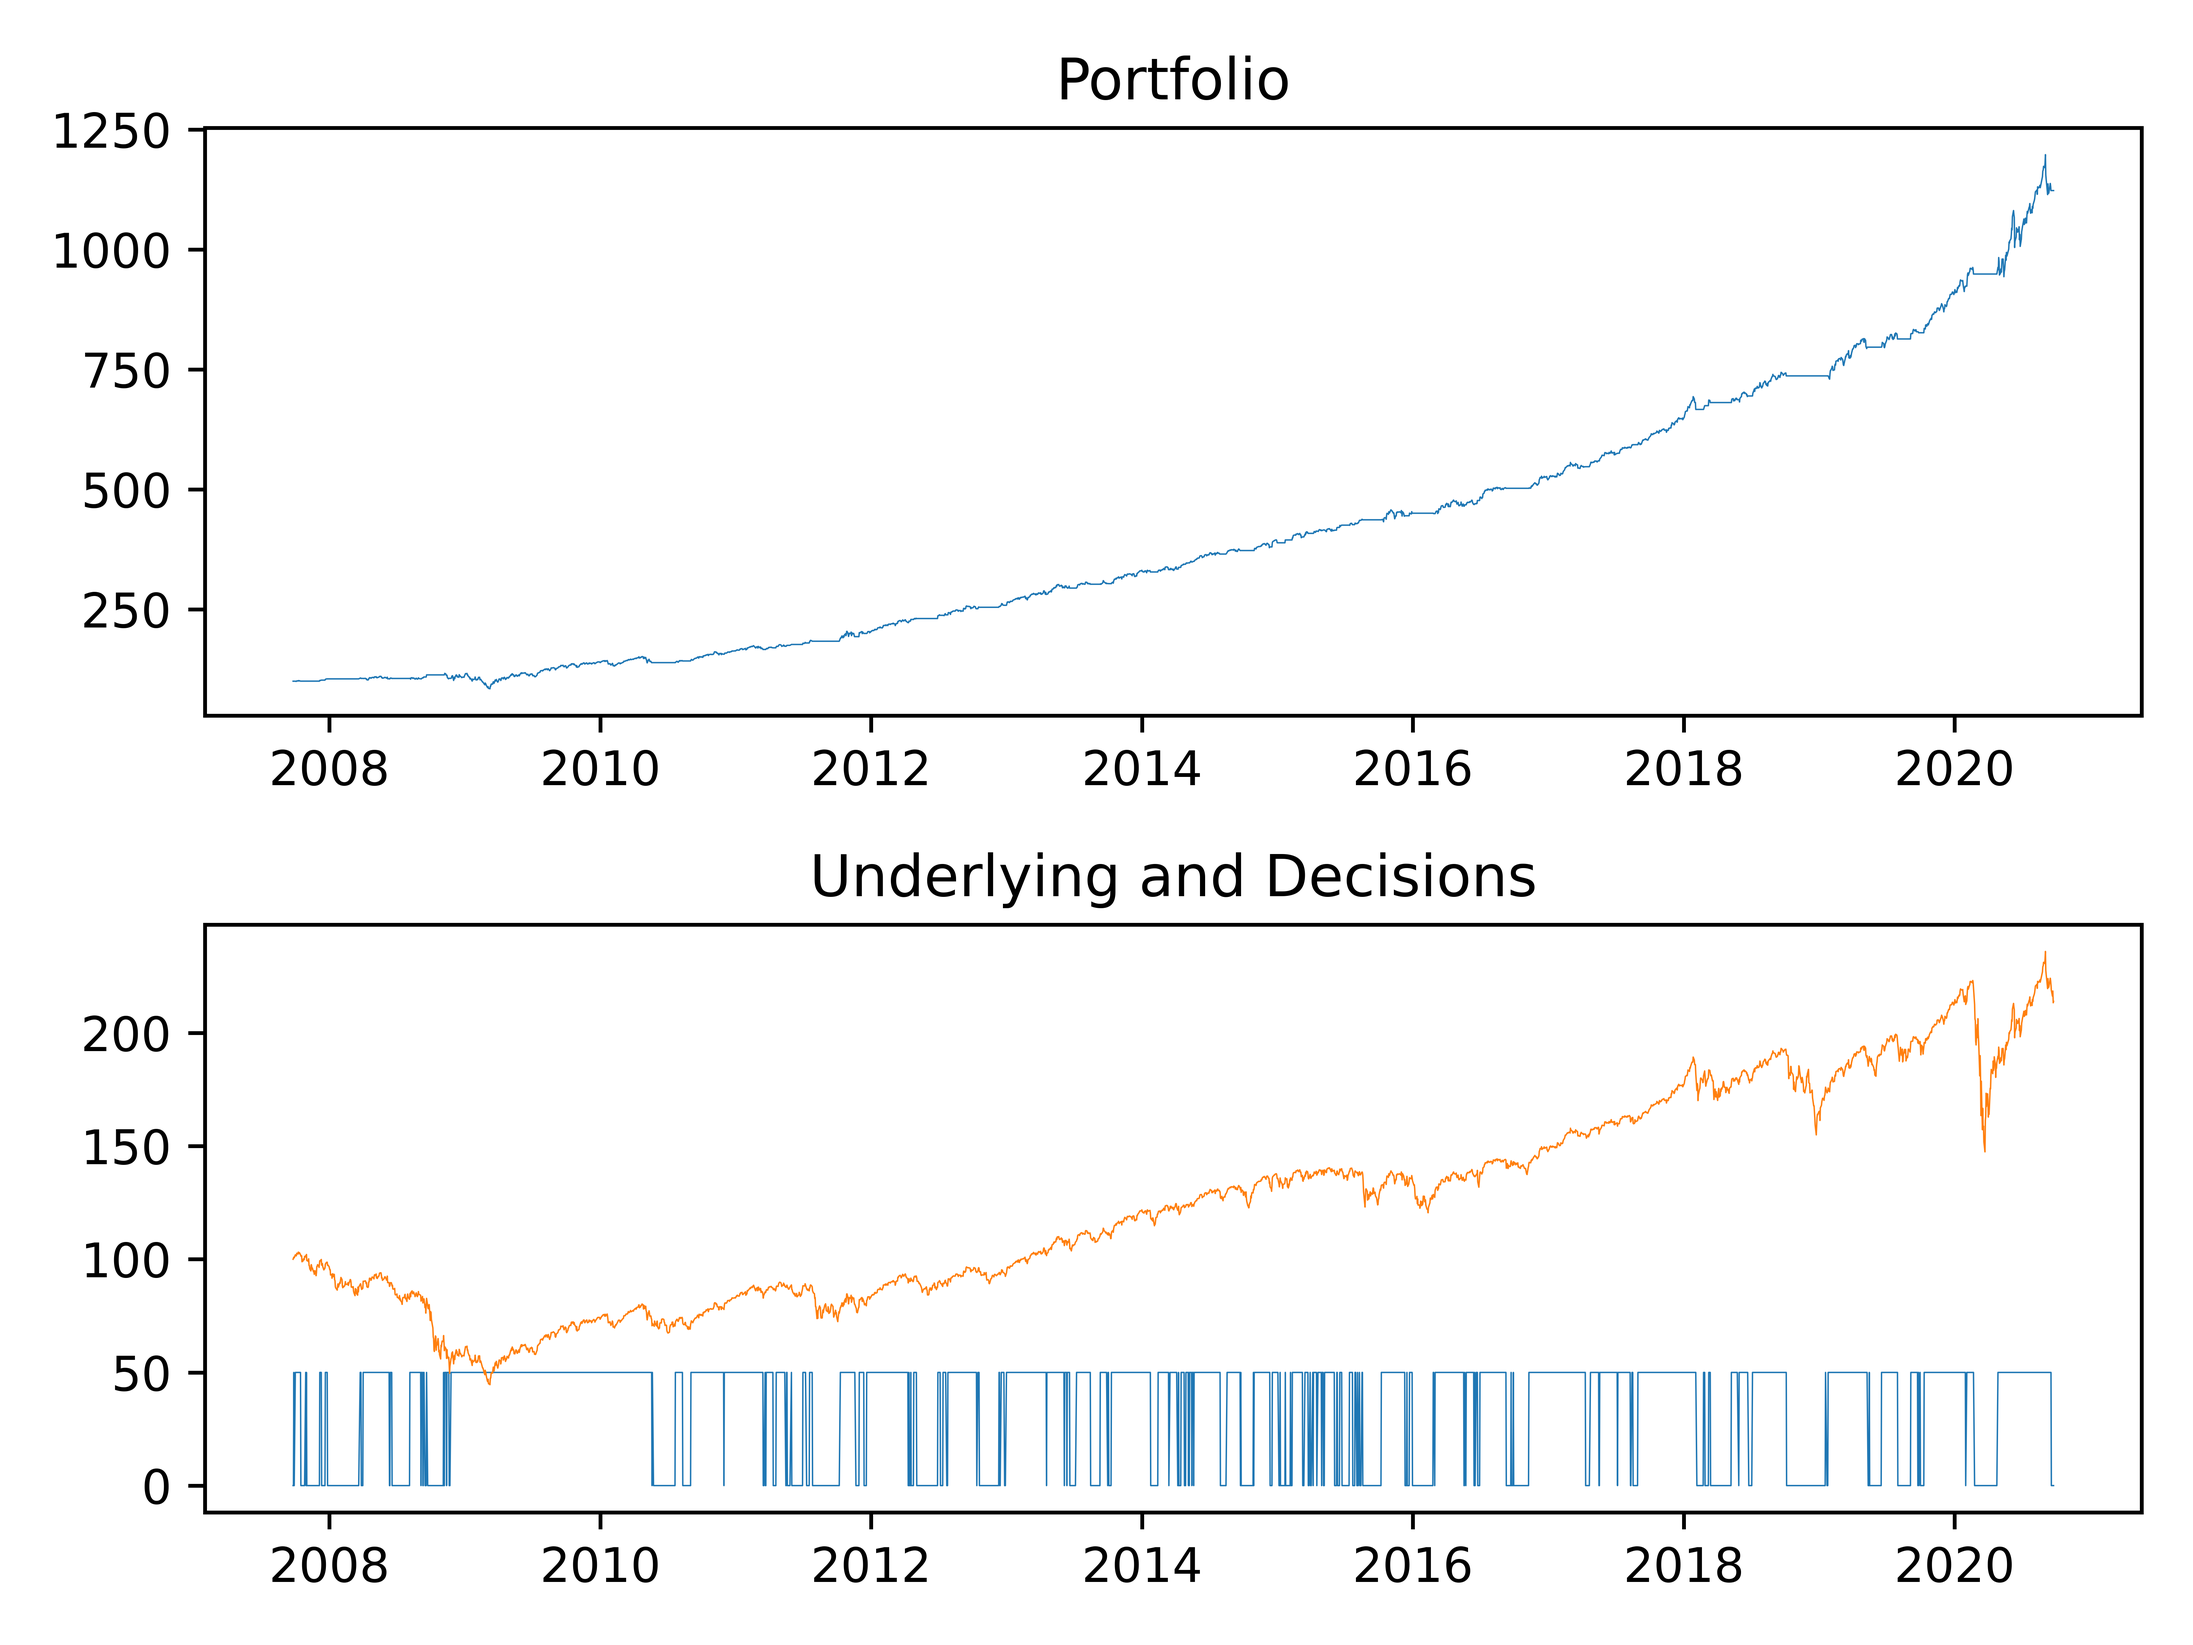
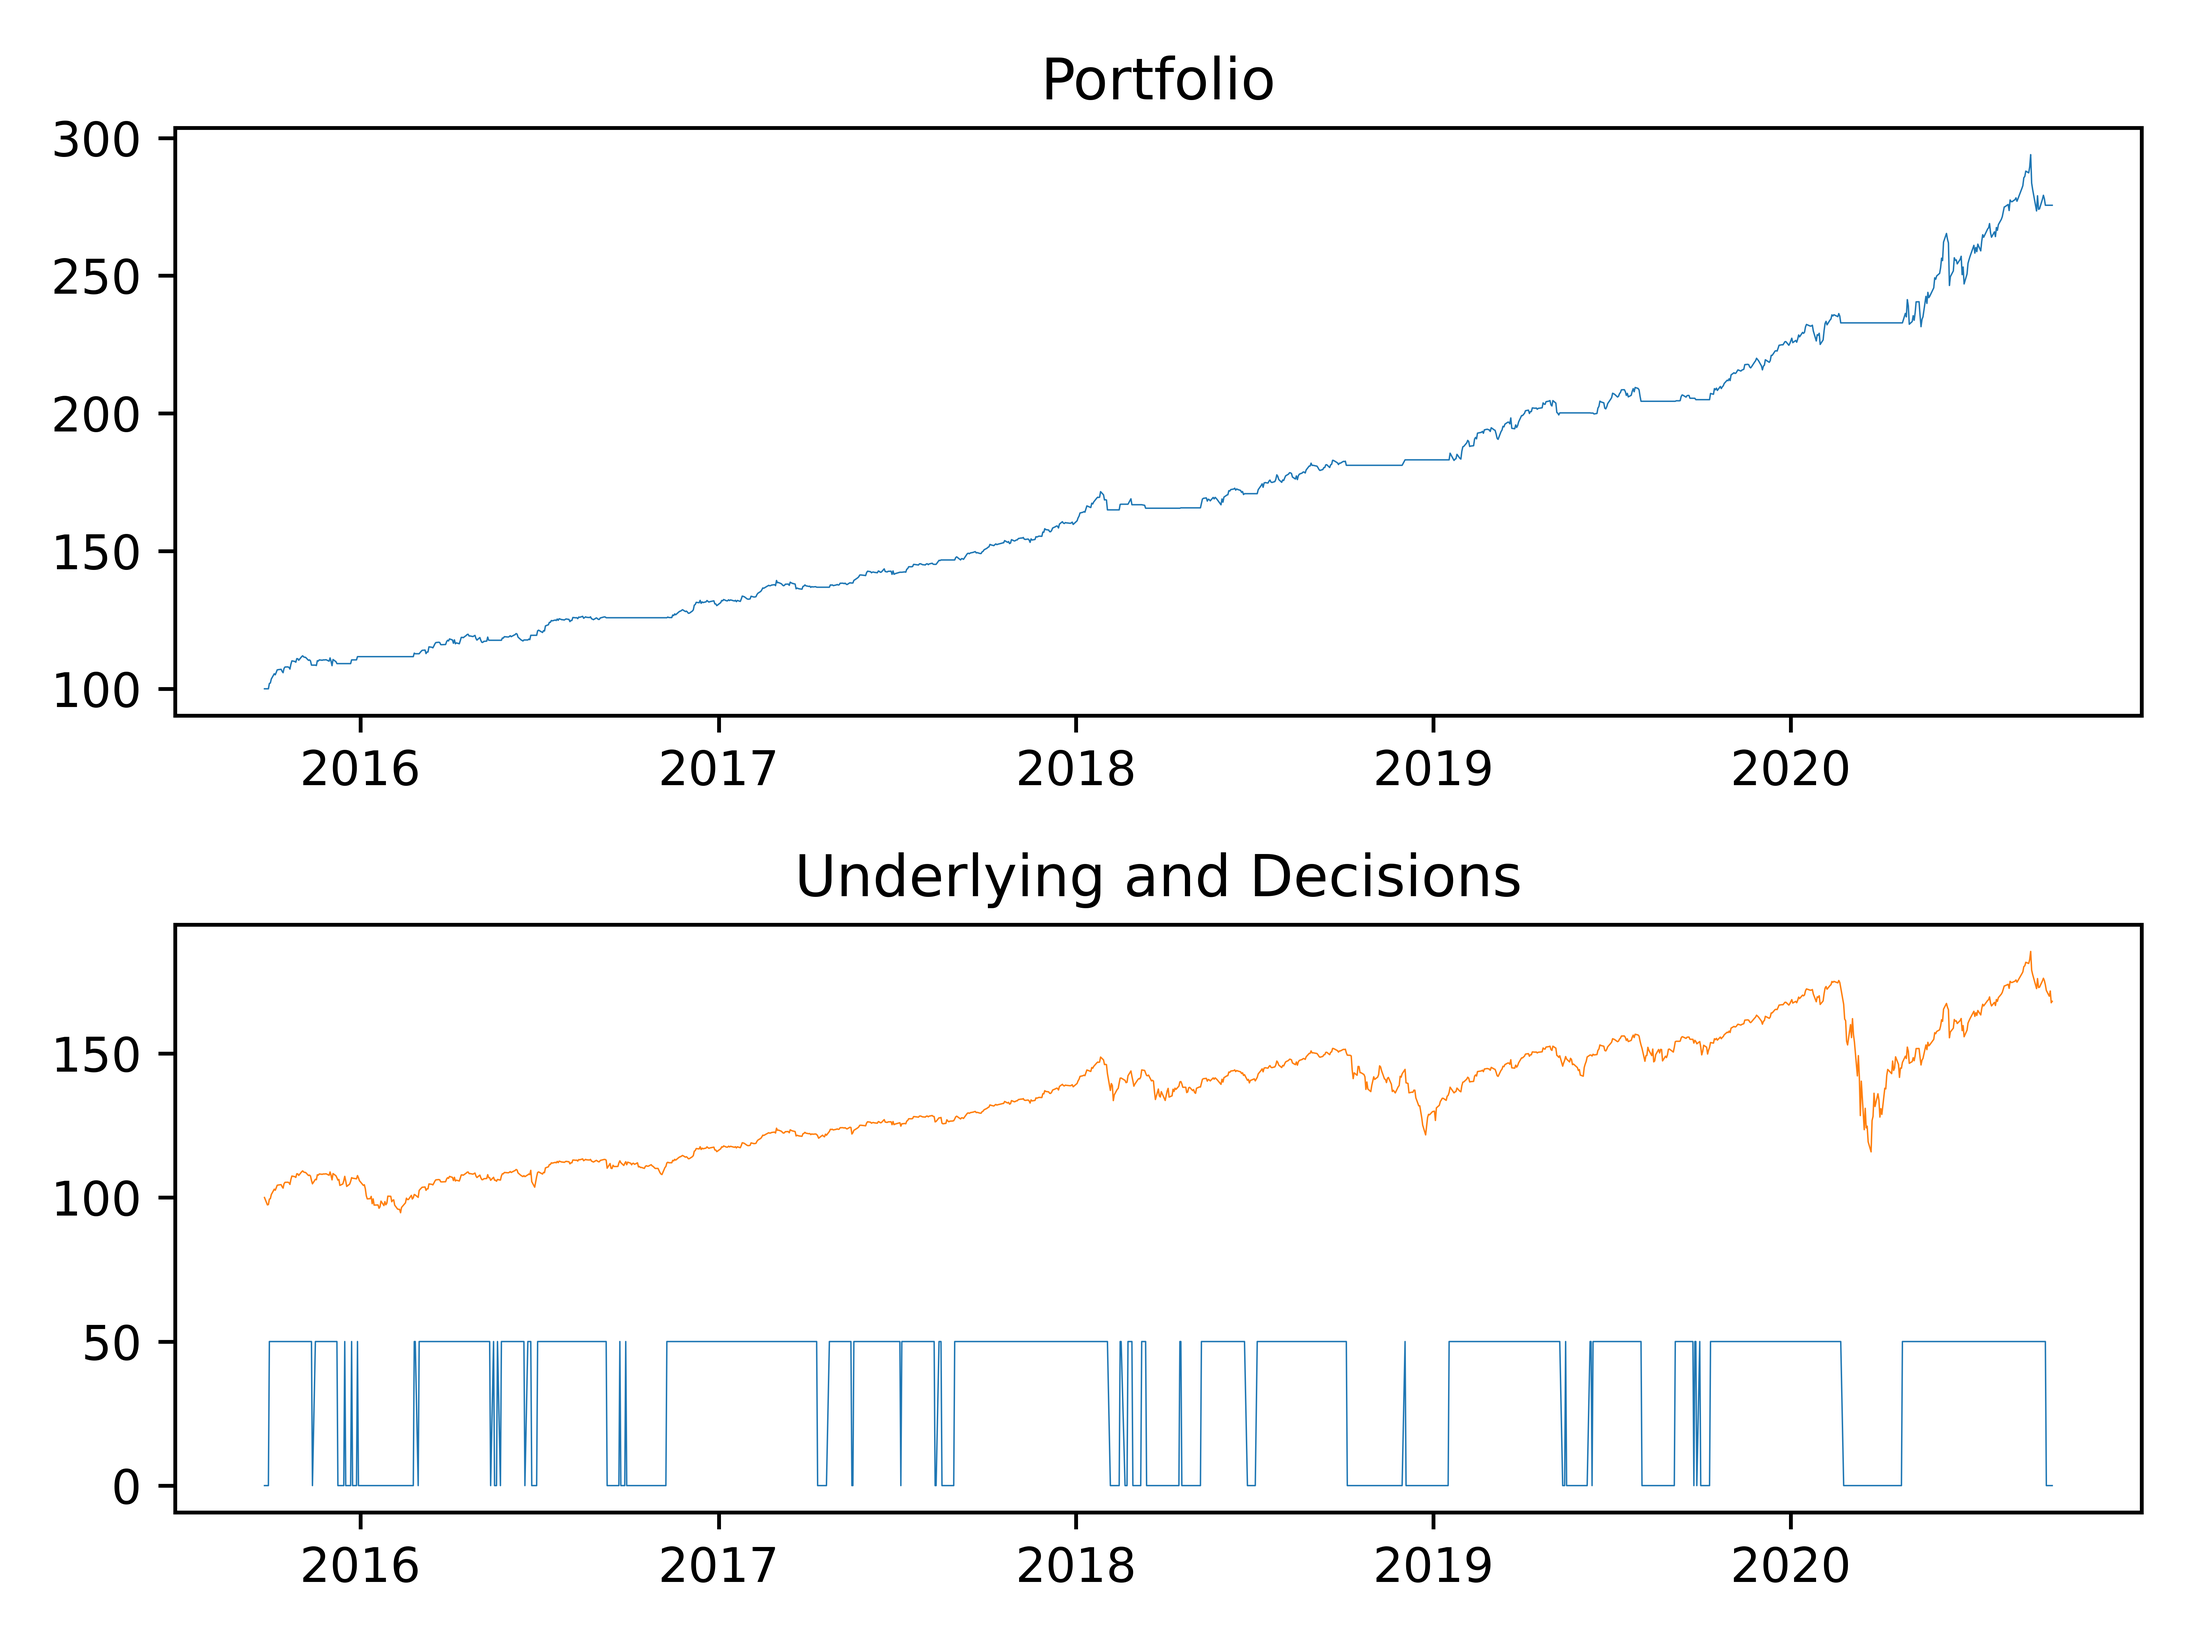
improvements

diff --git a/main.py b/main.py
@@ -1,3 +1,5 @@
+
+SHORT = False
 class bcolors:
     HEADER = '\033[95m'
     OKBLUE = '\033[94m'
@@ -7,8 +9,6 @@ class bcolors:
     ENDC = '\033[0m'
     BOLD = '\033[1m'
     UNDERLINE = '\033[4m'
-
-SHORT = False
 
 def dateToYYYYMMDD(date, *args):
     day = date.day
@@ -135,12 +135,12 @@ model.add(Dense(1, activation='sigmoid'))
 opt = SGD(lr=0.01, momentum=0.9)
 model.compile(loss='binary_crossentropy', optimizer='adam', metrics=['accuracy'])
 # fit the keras model on the dataset
-model.fit(trainX, trainY, epochs=5, batch_size=5)
+model.fit(trainX, trainY, epochs=50, batch_size=5)
 # evaluate the keras model
 _, accuracy = model.evaluate(trainX, trainY)
 #print('Accuracy: %.2f' % (accuracy*100))
 
-testingDuration = 13
+testingDuration = 5
 testingData = getDataset("^GSPC", testingDuration)
 testingX = testingData.loc[:, ["sma50", "sma100", "sma200", "50-100", "50-200", "100-200", "spotTo50", "spotTo100", "spotTo200", "vix1", "peRatio"]].values
 
@@ -175,8 +175,8 @@ for date, row in testingGraph.iterrows():
     elif SHORT:
         lastPrice = row["Close"]
         dailyReturn = row["Close"] / lastPrice
-        currentValue = currentValue * (1 / dailyReturn)
-        current2XValue = current2XValue * (1 / (((dailyReturn - 1) * 2) + 1))
+        currentValue = currentValue * (1.0000 / dailyReturn)
+        current2XValue = current2XValue * (1.000 / (((dailyReturn - 1) * 2) + 1))
         # print(currentValue)
         portfolioValues.append(currentValue)
         portfolioValues2X.append(current2XValue)
@@ -208,7 +208,13 @@ portfolio2XReturns = (pow(portfolio2XLastPrice/portfolioStartingPrice, 1/(testin
 #print(portfolioReturns)
 print('Annual returns for 2 times leveraged Portfolio: %.2f' % portfolio2XReturns + f"%{bcolors.ENDC}")
 
-
+lastPrediction = 0
+changeCounter = 0
+for i in predictions:
+    if i != lastPrediction:
+        changeCounter = changeCounter + 1
+        lastPrediction = i
+print("Number of decision changes: " + str(changeCounter))
 testingFig, testingAxes = plt.subplots(2)
 
 testingAxes[0].plot(testingGraph.loc[:, ["portfolio"]], 'tab:blue', linewidth=0.3)
